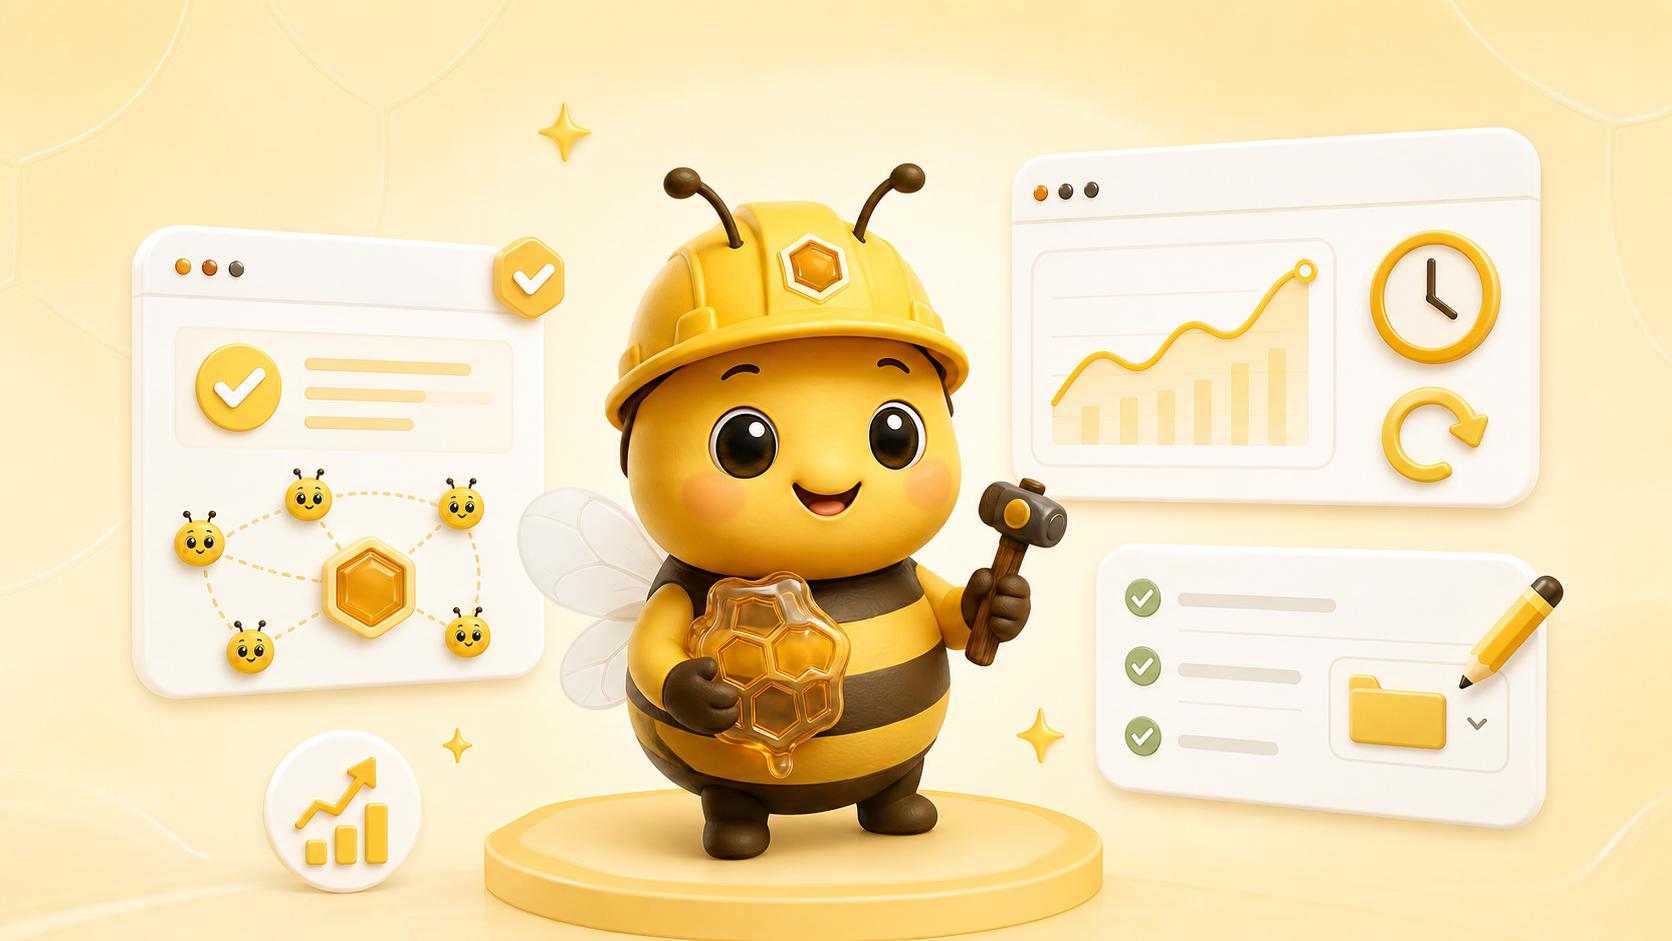
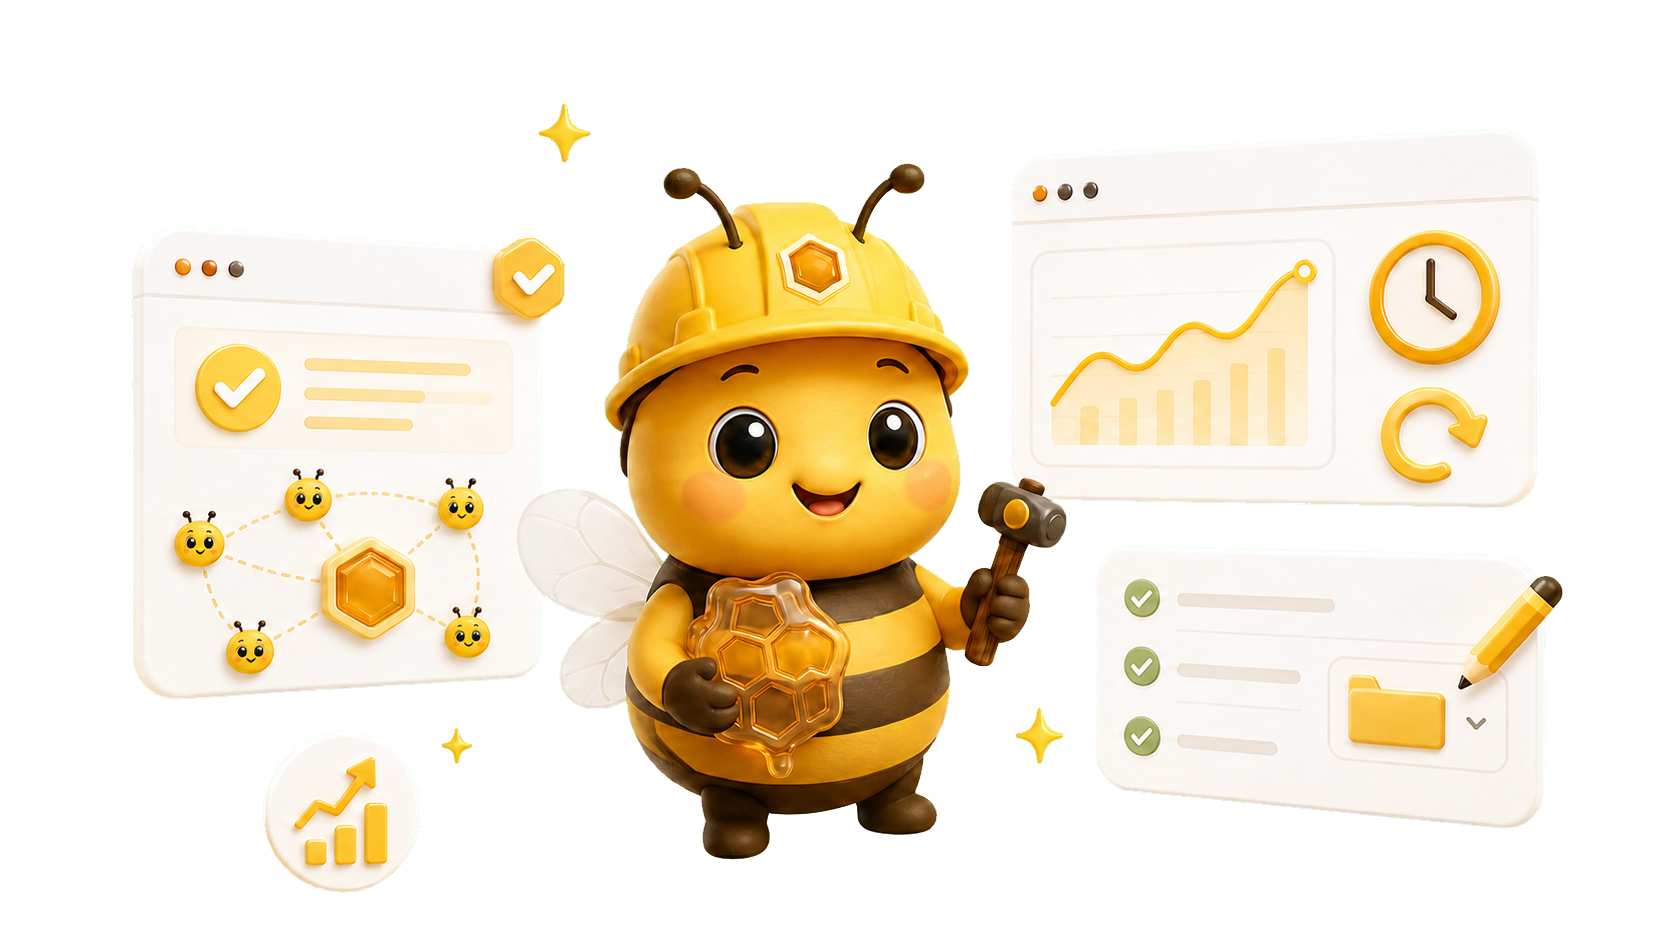
Make Hive Report cover transparent

diff --git a/blog-article.html b/blog-article.html
@@ -22,7 +22,7 @@
   <meta name="twitter:image" content="https://www.luzora.app/assets/images/og-image.png" />
   <!-- ARTICLE_STRUCTURED_DATA -->
   <link rel="stylesheet" href="/css/styles.css?v=20260721-email-copy" />
-  <link rel="stylesheet" href="/css/blog.css?v=20260721-article-cta" />
+  <link rel="stylesheet" href="/css/blog.css?v=20260726-transparent-cover" />
 </head>
 <body class="blog-page blog-article-page">
   <div data-site-nav></div>
@@ -100,6 +100,6 @@
   </footer>
 
   <script src="/js/main.js?v=20260721-email-copy"></script>
-  <script src="/js/blog.js?v=20260726-hive-report-01"></script>
+  <script src="/js/blog.js?v=20260726-transparent-cover"></script>
 </body>
 </html>

diff --git a/api/blog-article.js b/api/blog-article.js
@@ -5,7 +5,7 @@ const ARTICLES = {
   "hive-report-01-luzora-goes-public": {
     title: "The Hive Report #01: Luzora Goes Public, Gets Smarter, and Learns From You",
     description: "The first Hive Report covers Luzora's public launch, v1.0.4, Smart Return, community feedback, fixes, and the people helping shape the product.",
-    image: "https://www.luzora.app/assets/brand-kit/social/hive-report-01.png",
+    image: "https://www.luzora.app/assets/brand-kit/social/hive-report-01.png?v=20260726-transparent",
     datePublished: "2026-07-26T18:00:00+01:00",
     dateModified: "2026-07-26T18:00:00+01:00"
   },

diff --git a/blog.html b/blog.html
@@ -32,7 +32,7 @@
   }
   </script>
   <link rel="stylesheet" href="css/styles.css?v=20260721-email-copy" />
-  <link rel="stylesheet" href="css/blog.css?v=20260721-article-cta" />
+  <link rel="stylesheet" href="css/blog.css?v=20260726-transparent-cover" />
 </head>
 <body class="blog-page blog-index-page">
   <div data-site-nav></div>
@@ -112,6 +112,6 @@
   </footer>
 
   <script src="js/main.js?v=20260721-email-copy"></script>
-  <script src="js/blog.js?v=20260726-hive-report-01"></script>
+  <script src="js/blog.js?v=20260726-transparent-cover"></script>
 </body>
 </html>

diff --git a/js/blog.js b/js/blog.js
@@ -11,7 +11,7 @@
       date: "July 26, 2026",
       readTime: "12 min read",
       author: "Luzora Team",
-      cardImage: "/assets/brand-kit/social/hive-report-01.png",
+      cardImage: "/assets/brand-kit/social/hive-report-01.png?v=20260726-transparent",
       cardImageAlt: "Worker Bee surrounded by Luzora product updates, Smart Return, referral, and task editing cards",
       lead: [
         "Hello, you. Welcome to our first Hive Report. 🐝",

diff --git a/css/blog.css b/css/blog.css
@@ -236,7 +236,7 @@
 }
 
 .blog-card__image--custom {
-  padding: 12px;
+  padding: 0;
 }
 
 .blog-card__image img {
